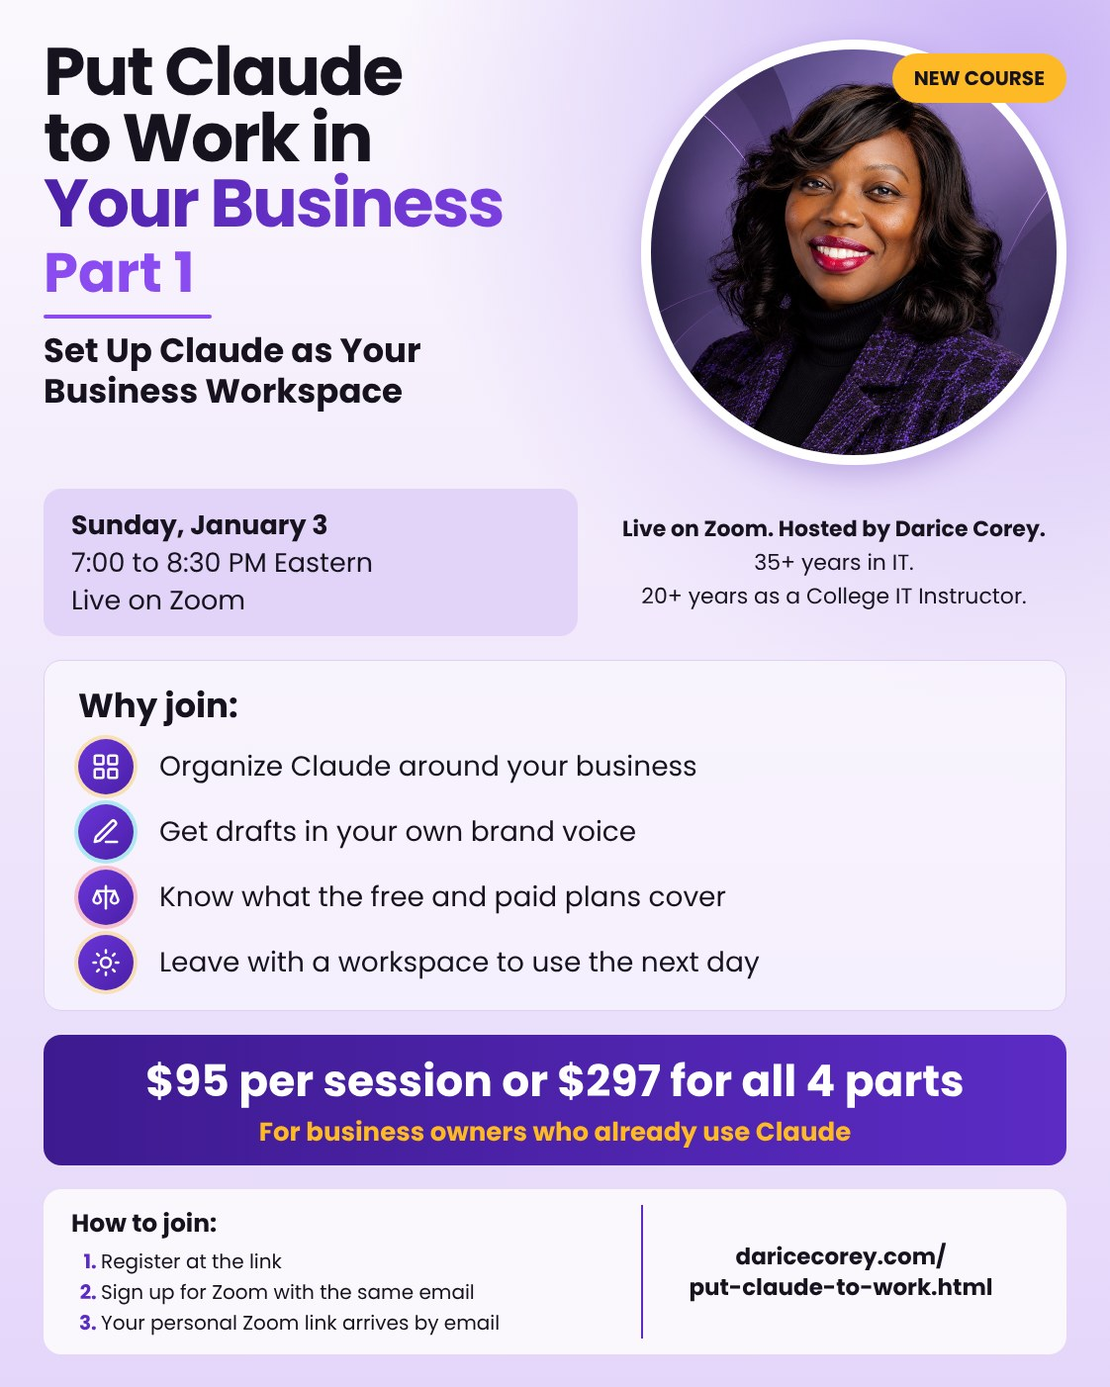
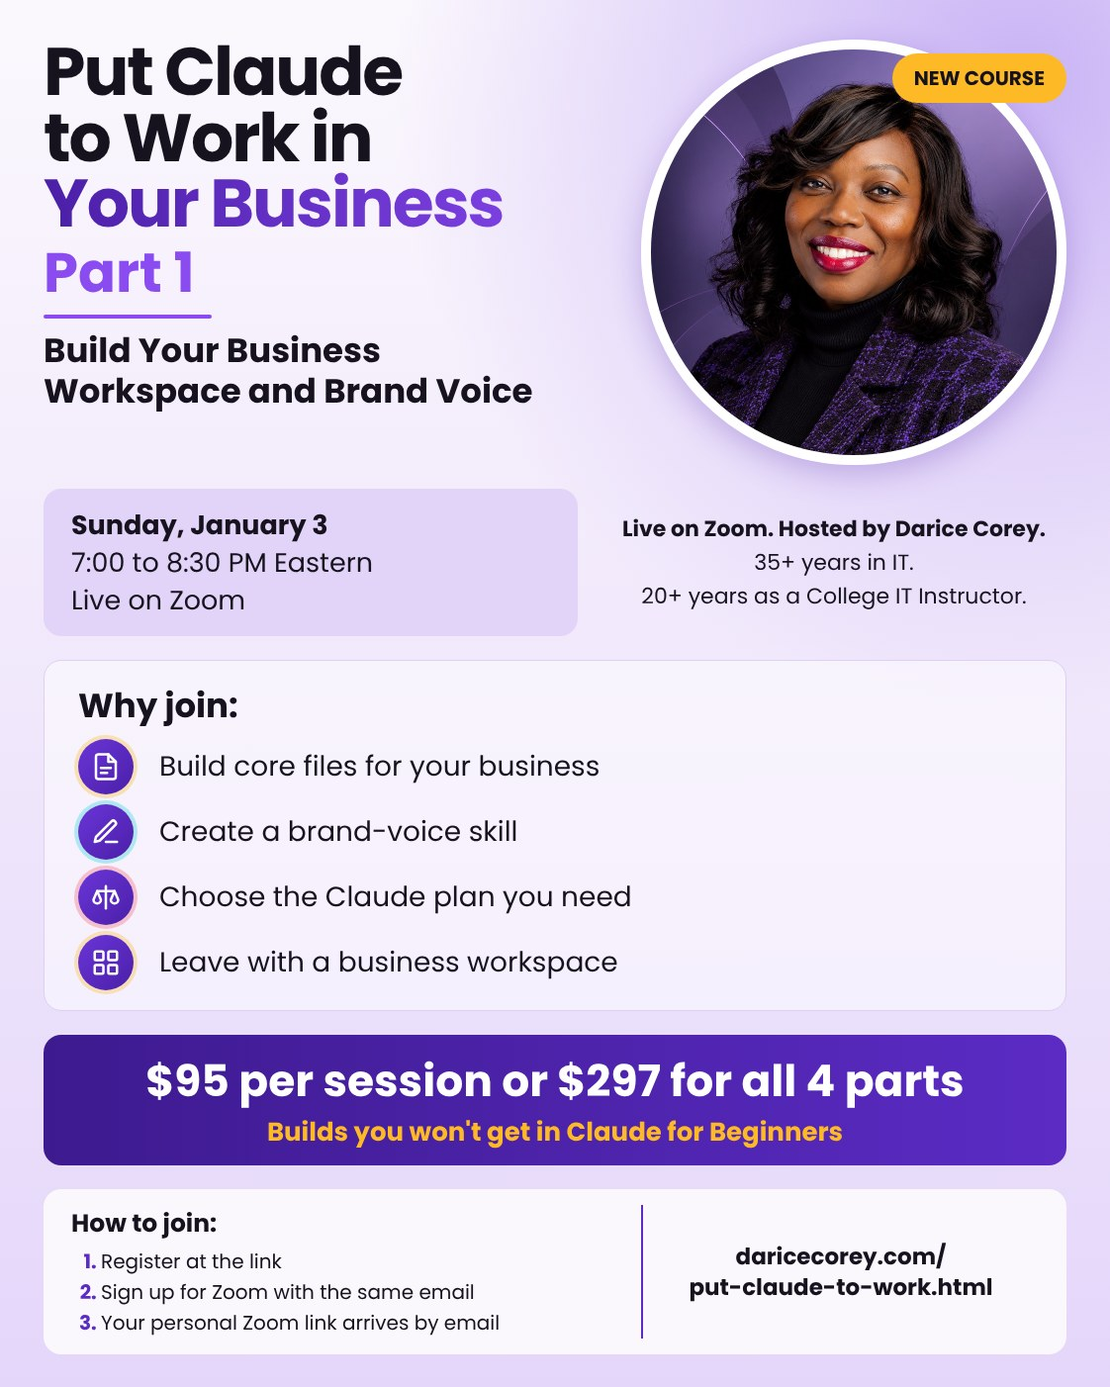
Retitle Put Claude to Work sessions and add what's beyond Claude for Beginners
Claude-Session: https://claude.ai/code/session_012t3srwSZETYap6UJ4xUYNw

diff --git a/put-claude-to-work.html b/put-claude-to-work.html
@@ -5,18 +5,18 @@
 <head>
   <meta charset="UTF-8" />
   <meta name="viewport" content="width=device-width, initial-scale=1.0" />
-  <meta name="description" content="A four-part live Zoom course with Darice Corey for people who already use Claude and want it to take on real work in their business. Sunday evenings, 7:00 to 8:30 PM Eastern, January 3 to 31, 2027." />
+  <meta name="description" content="A four-part live Zoom course with Darice Corey: build a brand voice, a website for about the cost of a domain, payment links, a self-running newsletter, and automations with Claude. Sunday evenings, 7:00 to 8:30 PM Eastern, January 3 to 31, 2027." />
   <title>Put Claude to Work in Your Business | Darice Corey, LLC</title>
   <meta name="robots" content="index, follow" />
   <link rel="canonical" href="https://www.daricecorey.com/put-claude-to-work.html" />
   <meta property="og:type" content="website" />
   <meta property="og:title" content="Put Claude to Work in Your Business | Darice Corey, LLC" />
-  <meta property="og:description" content="A four-part live Zoom course with Darice Corey for people who already use Claude and want it to take on real work in their business. Sunday evenings, 7:00 to 8:30 PM Eastern, January 3 to 31, 2027." />
+  <meta property="og:description" content="A four-part live Zoom course with Darice Corey: build a brand voice, a website for about the cost of a domain, payment links, a self-running newsletter, and automations with Claude. Sunday evenings, 7:00 to 8:30 PM Eastern, January 3 to 31, 2027." />
   <meta property="og:url" content="https://www.daricecorey.com/put-claude-to-work.html" />
   <meta property="og:image" content="https://www.daricecorey.com/images/events/put-claude-to-work-part-1.jpg" />
   <meta name="twitter:card" content="summary_large_image" />
   <meta name="twitter:title" content="Put Claude to Work in Your Business | Darice Corey, LLC" />
-  <meta name="twitter:description" content="A four-part live Zoom course with Darice Corey for people who already use Claude and want it to take on real work in their business. Sunday evenings, 7:00 to 8:30 PM Eastern, January 3 to 31, 2027." />
+  <meta name="twitter:description" content="A four-part live Zoom course with Darice Corey: build a brand voice, a website for about the cost of a domain, payment links, a self-running newsletter, and automations with Claude. Sunday evenings, 7:00 to 8:30 PM Eastern, January 3 to 31, 2027." />
   <meta name="twitter:image" content="https://www.daricecorey.com/images/events/put-claude-to-work-part-1.jpg" />
   <script>window.__daOptOut=(function(){try{return localStorage.getItem('da-analytics-optout')==='1'}catch(e){return false}})();if(window.__daOptOut){window['ga-disable-G-725R412XD7']=true;}</script>
   <script async src="https://www.googletagmanager.com/gtag/js?id=G-725R412XD7"></script>
@@ -42,7 +42,7 @@
         <p class="section-label" style="color:var(--coral);">New Live Course on Zoom</p>
         <h1 class="section-heading" style="color:#fff;">Put Claude to Work in Your Business</h1>
         <p style="font-size:1.1rem;color:#fff;font-weight:500;margin-bottom:.75rem;">Four Sunday evenings, 7:00 to 8:30 PM Eastern, January 3 to 31, 2027</p>
-        <p style="font-size:1rem;color:rgba(255,255,255,.8);max-width:620px;line-height:1.75;margin-bottom:1.5rem;">I run my own small business with Claude every day. In this four-part course, I'll show you how to set it up so it takes on real work in your business, with you in charge of what it does. You'll build as we go and leave each session with something you can use the next day.</p>
+        <p style="font-size:1rem;color:rgba(255,255,255,.8);max-width:620px;line-height:1.75;margin-bottom:1.5rem;">I run my own small business with Claude every day. In this four-part course, you'll build the same low-cost setup I use: a brand voice, a website for about the cost of a domain, payment links, a newsletter that runs itself, and the connections that tie it all together. You'll build as we go and leave each session with something that works.</p>
         <ul class="pop-pills" aria-label="Course highlights">
           <li class="pop-pill gold">$95 per session</li>
           <li class="pop-pill teal">$297 for all four parts</li>
@@ -65,7 +65,23 @@
           <p style="line-height:1.75;margin-bottom:1rem;">Some of what I show uses a paid Claude plan. I'll point out which parts need one as we go, so you can decide what's worth paying for.</p>
           <p style="line-height:1.75;">I've spent more than 35 years working in IT and more than 22 years teaching it at the college level, and I'm currently an executive doctoral student researching AI governance. I teach in plain language, with real examples and plenty of room for questions.</p>
         </div>
-        <img src="/images/events/put-claude-to-work-part-1.jpg" alt="Put Claude to Work in Your Business, Part 1: Set Up Claude as Your Business Workspace. Sunday, January 3, 2027, 7:00 to 8:30 PM Eastern, live on Zoom. Hosted by Darice Corey. $95 per session or $297 for all 4 parts." width="1122" height="1402" style="width:100%;height:auto;border-radius:12px;" loading="lazy" />
+        <img src="/images/events/put-claude-to-work-part-1.jpg" alt="Put Claude to Work in Your Business, Part 1: Build Your Business Workspace and Brand Voice. Sunday, January 3, 2027, 7:00 to 8:30 PM Eastern, live on Zoom. Hosted by Darice Corey. $95 per session or $297 for all 4 parts." width="1122" height="1402" style="width:100%;height:auto;border-radius:12px;" loading="lazy" />
+      </div>
+    </section>
+
+    <section aria-labelledby="diff-heading" style="background:var(--bg2);">
+      <div class="container">
+        <p class="section-label">Beyond the Basics</p>
+        <h2 class="section-heading" id="diff-heading">What you'll build here that Claude for Beginners doesn't cover.</h2>
+        <p class="section-sub">Claude for Beginners teaches you how to use Claude well and safely. This course assumes you already know the basics, like Projects, uploading files, and memory, and spends every session building parts of your business.</p>
+        <ul style="line-height:1.9;padding-left:1.2rem;max-width:720px;">
+          <li><strong>A website for about the cost of a domain,</strong> built with Claude and published on your own domain, with no website-builder subscription.</li>
+          <li><strong>Payment links that work like a store,</strong> with a thank-you page that tells buyers what's next and tracks each sale.</li>
+          <li><strong>A newsletter that runs itself,</strong> with a signup form and a welcome email that sends on its own.</li>
+          <li><strong>Connectors that do real work,</strong> so Claude can draft, schedule, and update across your business tools in one request.</li>
+          <li><strong>Skills and scheduled tasks</strong> for the work you repeat every week.</li>
+          <li><strong>A look at building your own connector,</strong> using one I built for my own business.</li>
+        </ul>
       </div>
     </section>
 
@@ -76,56 +92,58 @@
         <p class="section-sub">All four sessions are on Sunday evenings, 7:00 to 8:30 PM Eastern, on Zoom. Every part includes a safety focus. I may adjust a topic based on the questions people bring.</p>
         <div class="services-grid two-up">
           <div class="service-card">
-            <img src="/images/events/put-claude-to-work-part-1.jpg" alt="Put Claude to Work in Your Business, Part 1: Set Up Claude as Your Business Workspace. Sunday, January 3, 2027, 7:00 to 8:30 PM Eastern, live on Zoom. Hosted by Darice Corey. $95 per session or $297 for all 4 parts." width="1122" height="1402" loading="lazy" style="width:100%;height:auto;border-radius:10px;margin-bottom:1.25rem;" />
-            <h3>Part 1: Set Up Claude as Your Business Workspace</h3>
+            <img src="/images/events/put-claude-to-work-part-1.jpg" alt="Put Claude to Work in Your Business, Part 1: Build Your Business Workspace and Brand Voice. Sunday, January 3, 2027, 7:00 to 8:30 PM Eastern, live on Zoom. Hosted by Darice Corey. $95 per session or $297 for all 4 parts." width="1122" height="1402" loading="lazy" style="width:100%;height:auto;border-radius:10px;margin-bottom:1.25rem;" />
+            <h3>Part 1: Build Your Business Workspace and Brand Voice</h3>
             <p style="margin:.25rem 0 .75rem;font-weight:500;">Sunday, January 3, 2027, 7:00 to 8:30 PM Eastern</p>
             <ul>
-              <li>Organizing Claude around the parts of your business, so it keeps the right context for each one</li>
-              <li>Getting Claude to write in your brand voice instead of a generic one</li>
-              <li>Seeing which business tasks the free plan handles and which ones need a paid plan</li>
-              <li>Leaving with a working business workspace you can use the next morning</li>
+              <li>Building your business's core reference files, like services, pricing, policies, and common answers, so every draft starts from your real details</li>
+              <li>Creating a brand-voice skill so Claude writes like your business, not like everyone else's</li>
+              <li>Choosing the Claude plan your business actually needs, based on the work you'll hand off</li>
+              <li>Leaving with a business workspace and a brand-voice skill you can use the next morning</li>
             </ul>
-            <p style="margin:0 0 1rem;"><strong>Safety focus:</strong> deciding what business information belongs in Claude and what stays out.</p>
+            <p style="margin:0 0 1rem;"><strong>Safety focus:</strong> what client and business information belongs in Claude and what stays out.</p>
             <a href="https://buy.stripe.com/14AcN69Jl5OH6megpD6J20x" class="btn-ghost" target="_blank" rel="noopener">Register for Part 1 ($95)</a>
           </div>
           <div class="service-card">
-            <img src="/images/events/put-claude-to-work-part-2.jpg" alt="Put Claude to Work in Your Business, Part 2: Turn Repeat Work into Skills. Sunday, January 10, 2027, 7:00 to 8:30 PM Eastern, live on Zoom. Hosted by Darice Corey. $95 per session or $297 for all 4 parts." width="1122" height="1402" loading="lazy" style="width:100%;height:auto;border-radius:10px;margin-bottom:1.25rem;" />
-            <h3>Part 2: Turn Repeat Work into Skills</h3>
+            <img src="/images/events/put-claude-to-work-part-2.jpg" alt="Put Claude to Work in Your Business, Part 2: Launch Your Website for the Cost of a Domain. Sunday, January 10, 2027, 7:00 to 8:30 PM Eastern, live on Zoom. Hosted by Darice Corey. $95 per session or $297 for all 4 parts." width="1122" height="1402" loading="lazy" style="width:100%;height:auto;border-radius:10px;margin-bottom:1.25rem;" />
+            <h3>Part 2: Launch Your Website for the Cost of a Domain</h3>
             <p style="margin:.25rem 0 .75rem;font-weight:500;">Sunday, January 10, 2027, 7:00 to 8:30 PM Eastern</p>
             <ul>
-              <li>Spotting the tasks you repeat every week that Claude could handle the same way each time</li>
-              <li>Building a reusable skill for one of those tasks, live, from a starter template</li>
-              <li>Testing the skill, fixing what doesn't work, and keeping track of versions</li>
-              <li>Leaving with one custom skill built around your own work</li>
+              <li>Planning and building a professional website with Claude, page by page</li>
+              <li>Publishing it without a website-builder subscription, so your main cost is the domain</li>
+              <li>Connecting your own domain and turning on a secure connection</li>
+              <li>Learning how to make updates yourself, without hiring anyone</li>
+              <li>Leaving with a live website on your own domain</li>
             </ul>
-            <p style="margin:0 0 1rem;"><strong>Safety focus:</strong> checking a skill's output before it goes to a client or customer.</p>
+            <p style="margin:0 0 1rem;"><strong>Safety focus:</strong> keeping your site and accounts secure, and what should never go on a public page.</p>
             <a href="https://buy.stripe.com/bJe5kE2gT3GzcKC1uJ6J20y" class="btn-ghost" target="_blank" rel="noopener">Register for Part 2 ($95)</a>
           </div>
           <div class="service-card">
-            <img src="/images/events/put-claude-to-work-part-3.jpg" alt="Put Claude to Work in Your Business, Part 3: Connectors, Automation, and Safe Action. Sunday, January 17, 2027, 7:00 to 8:30 PM Eastern, live on Zoom. Hosted by Darice Corey. $95 per session or $297 for all 4 parts." width="1122" height="1402" loading="lazy" style="width:100%;height:auto;border-radius:10px;margin-bottom:1.25rem;" />
-            <h3>Part 3: Connectors, Automation, and Safe Action</h3>
+            <img src="/images/events/put-claude-to-work-part-3.jpg" alt="Put Claude to Work in Your Business, Part 3: Get Paid and Grow Your Email List. Sunday, January 17, 2027, 7:00 to 8:30 PM Eastern, live on Zoom. Hosted by Darice Corey. $95 per session or $297 for all 4 parts." width="1122" height="1402" loading="lazy" style="width:100%;height:auto;border-radius:10px;margin-bottom:1.25rem;" />
+            <h3>Part 3: Get Paid and Grow Your Email List</h3>
             <p style="margin:.25rem 0 .75rem;font-weight:500;">Sunday, January 17, 2027, 7:00 to 8:30 PM Eastern</p>
             <ul>
-              <li>Connecting Claude to the apps your business already runs on</li>
-              <li>Setting up a task that runs on a schedule, like a daily brief</li>
-              <li>Deciding what Claude may do on its own and what needs your yes first</li>
-              <li>Leaving with one connected workflow and one scheduled task</li>
+              <li>Setting up payment links that offer customers several ways to pay</li>
+              <li>Sending buyers to a thank-you page that tells them what's next and tracks each sale</li>
+              <li>Building a signup form and a welcome email that sends on its own</li>
+              <li>Connecting Claude to these tools so it can help you run them</li>
+              <li>Leaving with a working payment link and a self-running welcome email</li>
             </ul>
-            <p style="margin:0 0 1rem;"><strong>Safety focus:</strong> what AI can see and do once it's connected to your accounts or allowed to act on your computer.</p>
+            <p style="margin:0 0 1rem;"><strong>Safety focus:</strong> the business version of my module on what AI can see and do, covering payment accounts, customer information, and approvals before anything happens.</p>
             <a href="https://buy.stripe.com/eVq28sdZB4KDdOG0qF6J20z" class="btn-ghost" target="_blank" rel="noopener">Register for Part 3 ($95)</a>
           </div>
           <div class="service-card">
-            <img src="/images/events/put-claude-to-work-part-4.jpg" alt="Put Claude to Work in Your Business, Part 4: Run It as a System. Sunday, January 31, 2027, 7:00 to 8:30 PM Eastern, live on Zoom. Hosted by Darice Corey. $95 per session or $297 for all 4 parts." width="1122" height="1402" loading="lazy" style="width:100%;height:auto;border-radius:10px;margin-bottom:1.25rem;" />
-            <h3>Part 4: Run It as a System</h3>
+            <img src="/images/events/put-claude-to-work-part-4.jpg" alt="Put Claude to Work in Your Business, Part 4: Put Your Business on Autopilot. Sunday, January 31, 2027, 7:00 to 8:30 PM Eastern, live on Zoom. Hosted by Darice Corey. $95 per session or $297 for all 4 parts." width="1122" height="1402" loading="lazy" style="width:100%;height:auto;border-radius:10px;margin-bottom:1.25rem;" />
+            <h3>Part 4: Put Your Business on Autopilot</h3>
             <p style="margin:.25rem 0 .75rem;font-weight:500;">Sunday, January 31, 2027, 7:00 to 8:30 PM Eastern</p>
             <ul>
-              <li>Keeping a simple record of what AI is doing for your business and what it's saving you</li>
-              <li>Building a review step so nothing goes out the door unchecked</li>
-              <li>Keeping your business work separate from a day job or other commitments</li>
-              <li>Seeing what it takes to build your own connector</li>
-              <li>Leaving with a one-page operating plan for your business</li>
+              <li>Turning repeat work, like proposals and social posts, into skills</li>
+              <li>Setting up a task that runs on a schedule, like a morning business brief</li>
+              <li>Connecting Claude to your email, calendar, and files so one request can update several tools</li>
+              <li>Seeing a custom connector I built for my own business, and what it takes to build one</li>
+              <li>Leaving with a skill, a scheduled task, and a one-page operating plan</li>
             </ul>
-            <p style="margin:0 0 1rem;"><strong>Safety focus:</strong> keeping a person responsible for every decision AI touches.</p>
+            <p style="margin:0 0 1rem;"><strong>Safety focus:</strong> keeping a person in charge of every decision AI touches.</p>
             <a href="https://buy.stripe.com/fZuaEY6x9cd511U7T76J20A" class="btn-ghost" target="_blank" rel="noopener">Register for Part 4 ($95)</a>
           </div>
         </div>

diff --git a/_includes/upcoming-workshops.html b/_includes/upcoming-workshops.html
@@ -20,12 +20,12 @@
     { start: '2026-12-03T19:00:00-05:00', series: 'AI for Beginners', part: 'Part 4: Making ChatGPT Work for You, Safely', when: 'Thursday, December 3, 7:00 to 8:00 PM Eastern', url: '/ai-for-beginners.html' },
     { start: '2026-12-06T14:00:00-05:00', series: 'Claude for Beginners', part: 'Part 2: Having a Real Conversation with Claude', when: 'Sunday, December 6, 2:00 to 3:00 PM Eastern', url: '/claude-for-beginners.html' },
     { start: '2026-12-20T14:00:00-05:00', series: 'Claude for Beginners', part: 'Part 3: Putting Claude to Work in Everyday Life', when: 'Sunday, December 20, 2:00 to 3:00 PM Eastern', url: '/claude-for-beginners.html' },
-    { start: '2027-01-03T19:00:00-05:00', series: 'Put Claude to Work in Your Business', part: 'Part 1: Set Up Claude as Your Business Workspace', when: 'Sunday, January 3, 7:00 to 8:30 PM Eastern', url: '/put-claude-to-work.html', price: '$95 per part, or $297 for the full course' },
+    { start: '2027-01-03T19:00:00-05:00', series: 'Put Claude to Work in Your Business', part: 'Part 1: Build Your Business Workspace and Brand Voice', when: 'Sunday, January 3, 7:00 to 8:30 PM Eastern', url: '/put-claude-to-work.html', price: '$95 per part, or $297 for the full course' },
     { start: '2027-01-10T14:00:00-05:00', series: 'Claude for Beginners', part: 'Part 4: Making Claude Work for You, Safely', when: 'Sunday, January 10, 2:00 to 3:00 PM Eastern', url: '/claude-for-beginners.html' },
-    { start: '2027-01-10T19:00:00-05:00', series: 'Put Claude to Work in Your Business', part: 'Part 2: Turn Repeat Work into Skills', when: 'Sunday, January 10, 7:00 to 8:30 PM Eastern', url: '/put-claude-to-work.html', price: '$95 per part, or $297 for the full course' },
-    { start: '2027-01-17T19:00:00-05:00', series: 'Put Claude to Work in Your Business', part: 'Part 3: Connectors, Automation, and Safe Action', when: 'Sunday, January 17, 7:00 to 8:30 PM Eastern', url: '/put-claude-to-work.html', price: '$95 per part, or $297 for the full course' },
+    { start: '2027-01-10T19:00:00-05:00', series: 'Put Claude to Work in Your Business', part: 'Part 2: Launch Your Website for the Cost of a Domain', when: 'Sunday, January 10, 7:00 to 8:30 PM Eastern', url: '/put-claude-to-work.html', price: '$95 per part, or $297 for the full course' },
+    { start: '2027-01-17T19:00:00-05:00', series: 'Put Claude to Work in Your Business', part: 'Part 3: Get Paid and Grow Your Email List', when: 'Sunday, January 17, 7:00 to 8:30 PM Eastern', url: '/put-claude-to-work.html', price: '$95 per part, or $297 for the full course' },
     { start: '2027-01-31T14:00:00-05:00', series: 'Gemini for Beginners', part: 'Part 1: Getting Started with Gemini', when: 'Sunday, January 31, 2:00 to 3:00 PM Eastern', url: '/gemini-for-beginners.html' },
-    { start: '2027-01-31T19:00:00-05:00', series: 'Put Claude to Work in Your Business', part: 'Part 4: Run It as a System', when: 'Sunday, January 31, 7:00 to 8:30 PM Eastern', url: '/put-claude-to-work.html', price: '$95 per part, or $297 for the full course' },
+    { start: '2027-01-31T19:00:00-05:00', series: 'Put Claude to Work in Your Business', part: 'Part 4: Put Your Business on Autopilot', when: 'Sunday, January 31, 7:00 to 8:30 PM Eastern', url: '/put-claude-to-work.html', price: '$95 per part, or $297 for the full course' },
     { start: '2027-02-04T19:00:00-05:00', series: 'Copilot for Beginners', part: 'Part 1: Getting Started with Copilot', when: 'Thursday, February 4, 7:00 to 8:00 PM Eastern', url: '/copilot-for-beginners.html' },
     { start: '2027-02-07T14:00:00-05:00', series: 'Gemini for Beginners', part: 'Part 2: Having a Real Conversation with Gemini', when: 'Sunday, February 7, 2:00 to 3:00 PM Eastern', url: '/gemini-for-beginners.html' },
     { start: '2027-02-11T19:00:00-05:00', series: 'Copilot for Beginners', part: 'Part 2: Having a Real Conversation with Copilot', when: 'Thursday, February 11, 7:00 to 8:00 PM Eastern', url: '/copilot-for-beginners.html' },

diff --git a/put-claude-to-work-thank-you.html b/put-claude-to-work-thank-you.html
@@ -147,10 +147,10 @@ sitemap: false
         part4: 'https://us06web.zoom.us/meeting/register/gCf_Du5rTsGgK-DR2TO2gg'
       };
       var ITEMS = {
-        part1: { name: 'Put Claude to Work in Your Business, Part 1: Set Up Claude as Your Business Workspace', date: 'Sunday, January 3, 2027, 7:00 to 8:30 PM Eastern', price: 95, zoom: ['part1'] },
-        part2: { name: 'Put Claude to Work in Your Business, Part 2: Turn Repeat Work into Skills', date: 'Sunday, January 10, 2027, 7:00 to 8:30 PM Eastern', price: 95, zoom: ['part2'] },
-        part3: { name: 'Put Claude to Work in Your Business, Part 3: Connectors, Automation, and Safe Action', date: 'Sunday, January 17, 2027, 7:00 to 8:30 PM Eastern', price: 95, zoom: ['part3'] },
-        part4: { name: 'Put Claude to Work in Your Business, Part 4: Run It as a System', date: 'Sunday, January 31, 2027, 7:00 to 8:30 PM Eastern', price: 95, zoom: ['part4'] },
+        part1: { name: 'Put Claude to Work in Your Business, Part 1: Build Your Business Workspace and Brand Voice', date: 'Sunday, January 3, 2027, 7:00 to 8:30 PM Eastern', price: 95, zoom: ['part1'] },
+        part2: { name: 'Put Claude to Work in Your Business, Part 2: Launch Your Website for the Cost of a Domain', date: 'Sunday, January 10, 2027, 7:00 to 8:30 PM Eastern', price: 95, zoom: ['part2'] },
+        part3: { name: 'Put Claude to Work in Your Business, Part 3: Get Paid and Grow Your Email List', date: 'Sunday, January 17, 2027, 7:00 to 8:30 PM Eastern', price: 95, zoom: ['part3'] },
+        part4: { name: 'Put Claude to Work in Your Business, Part 4: Put Your Business on Autopilot', date: 'Sunday, January 31, 2027, 7:00 to 8:30 PM Eastern', price: 95, zoom: ['part4'] },
         all4: { name: 'Put Claude to Work in Your Business, Full Course (All 4 Parts)', date: 'Sundays, January 3, 10, 17, and 31, 2027, 7:00 to 8:30 PM Eastern', price: 297, zoom: ['part1', 'part2', 'part3', 'part4'] }
       };
       var LABELS = { part1: 'Register on Zoom for Part 1', part2: 'Register on Zoom for Part 2', part3: 'Register on Zoom for Part 3', part4: 'Register on Zoom for Part 4' };

diff --git a/classes.html b/classes.html
@@ -100,7 +100,7 @@
           <article class="service-card pop-card gold" aria-labelledby="pctw-heading">
             <p class="class-tag"><span class="pop-dot gold" aria-hidden="true"></span>New four-part course &middot; Sunday evenings</p>
             <h3 id="pctw-heading">Put Claude to Work in Your Business</h3>
-            <p>This is the next step after Claude for Beginners, for people with a business or side project who want Claude to take on real work. You'll build as we go and leave with a business workspace, a custom skill, a connected workflow, and a one-page operating plan.</p>
+            <p>This goes beyond Claude for Beginners. You'll build the low-cost setup I use for my own business: a brand voice, a website for about the cost of a domain, payment links, a self-running newsletter, and automations that tie it together.</p>
             <ul>
               <li>Sundays, 7:00 to 8:30 PM Eastern</li>
               <li>January 3, 10, 17, and 31, 2027</li>
